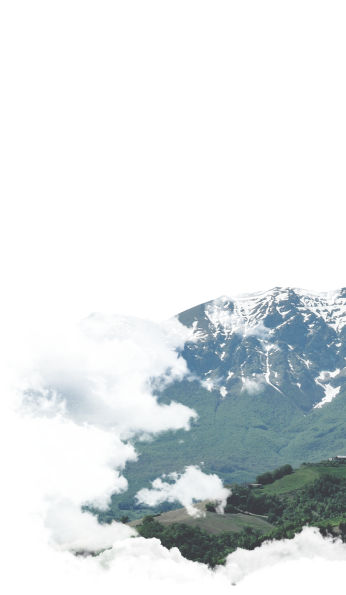
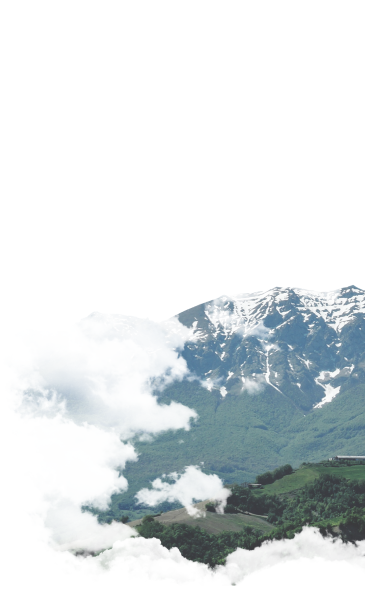
стилизует планшет и десктоп туров

diff --git a/source/index.html b/source/index.html
@@ -125,7 +125,8 @@
           <div class="hero__content">
             <div class="hero__text-container">
               <h2>Невероятная природа Камчатки</h2>
-              <p>Незабываемое приключение, во время которого вы отправитесь в путешествие по одному из самых нетронутых
+              <p>Незабываемое приключение, во время которого вы&nbsp;отправитесь в путешествие по одному из самых
+                нетронутых
                 уголков дикой природы в мире.</p>
               <a class="hero__button button" href="#">
                 <span class="hero__button-text">Смотреть тур</span>
@@ -209,14 +210,20 @@
                   </div>
                   <h3 class="tour-card__title">Путешествие вокруг&nbsp;Эльбруса</h3>
                   <dl class="tour-card__details">
-                    <dt class="tour-card__feature">Сложность:</dt>
-                    <dd class="tour-card__value star-rating" data-rating="4">
-                      <span class="visually-hidden">4 из 5</span>
-                    </dd>
-                    <dt class="tour-card__feature">Даты набора:</dt>
-                    <dd class="tour-card__value">12.06–19.06</dd>
-                    <dt class="tour-card__feature">Группа:</dt>
-                    <dd class="tour-card__value">до 15 чел.</dd>
+                    <div class="tour-card__details-wrapper">
+                      <dt class="tour-card__feature">Сложность:</dt>
+                      <dd class="tour-card__value star-rating" data-rating="4">
+                        <span class="visually-hidden">4 из 5</span>
+                      </dd>
+                    </div>
+                    <div class="tour-card__details-wrapper">
+                      <dt class="tour-card__feature">Даты набора:</dt>
+                      <dd class="tour-card__value">12.06–19.06</dd>
+                    </div>
+                    <div class="tour-card__details-wrapper">
+                      <dt class="tour-card__feature">Группа:</dt>
+                      <dd class="tour-card__value">до 15 чел.</dd>
+                    </div>
                   </dl>
                 </div>
               </li>
@@ -245,14 +252,20 @@
                   </div>
                   <h3 class="tour-card__title">Путь к подножию Белухи</h3>
                   <dl class="tour-card__details">
-                    <dt class="tour-card__feature">Сложность:</dt>
-                    <dd class="tour-card__value star-rating" data-rating="3">
-                      <span class="visually-hidden">3 из 5</span>
-                    </dd>
-                    <dt class="tour-card__feature">Даты набора:</dt>
-                    <dd class="tour-card__value">14.06–23.06</dd>
-                    <dt class="tour-card__feature">Группа:</dt>
-                    <dd class="tour-card__value">до 25 чел.</dd>
+                    <div class="tour-card__details-wrapper">
+                      <dt class="tour-card__feature">Сложность:</dt>
+                      <dd class="tour-card__value star-rating" data-rating="3">
+                        <span class="visually-hidden">3 из 5</span>
+                      </dd>
+                    </div>
+                    <div class="tour-card__details-wrapper">
+                      <dt class="tour-card__feature">Даты набора:</dt>
+                      <dd class="tour-card__value">14.06–23.06</dd>
+                    </div>
+                    <div class="tour-card__details-wrapper">
+                      <dt class="tour-card__feature">Группа:</dt>
+                      <dd class="tour-card__value">до 25 чел.</dd>
+                    </div>
                   </dl>
                 </div>
               </li>
@@ -277,14 +290,20 @@
                   </div>
                   <h3 class="tour-card__title">Через Фишт к&nbsp;Чёрному морю и&nbsp;обратно</h3>
                   <dl class="tour-card__details">
-                    <dt class="tour-card__feature">Сложность:</dt>
-                    <dd class="tour-card__value star-rating" data-rating="4">
-                      <span class="visually-hidden">4 из 5</span>
-                    </dd>
-                    <dt class="tour-card__feature">Даты набора:</dt>
-                    <dd class="tour-card__value">15.07–19.07</dd>
-                    <dt class="tour-card__feature">Группа:</dt>
-                    <dd class="tour-card__value">до 22 чел.</dd>
+                    <div class="tour-card__details-wrapper">
+                      <dt class="tour-card__feature">Сложность:</dt>
+                      <dd class="tour-card__value star-rating" data-rating="4">
+                        <span class="visually-hidden">4 из 5</span>
+                      </dd>
+                    </div>
+                    <div class="tour-card__details-wrapper">
+                      <dt class="tour-card__feature">Даты набора:</dt>
+                      <dd class="tour-card__value">15.07–19.07</dd>
+                    </div>
+                    <div class="tour-card__details-wrapper">
+                      <dt class="tour-card__feature">Группа:</dt>
+                      <dd class="tour-card__value">до 22 чел.</dd>
+                    </div>
                   </dl>
                 </div>
               </li>
@@ -309,14 +328,20 @@
                   </div>
                   <h3 class="tour-card__title">Восхождение Манарага</h3>
                   <dl class="tour-card__details">
-                    <dt class="tour-card__feature">Сложность:</dt>
-                    <dd class="tour-card__value star-rating" data-rating="5">
-                      <span class="visually-hidden">5 из 5</span>
-                    </dd>
-                    <dt class="tour-card__feature">Даты набора:</dt>
-                    <dd class="tour-card__value">12.07–19.07</dd>
-                    <dt class="tour-card__feature">Группа:</dt>
-                    <dd class="tour-card__value">до 7 чел.</dd>
+                    <div class="tour-card__details-wrapper">
+                      <dt class="tour-card__feature">Сложность:</dt>
+                      <dd class="tour-card__value star-rating" data-rating="5">
+                        <span class="visually-hidden">5 из 5</span>
+                      </dd>
+                    </div>
+                    <div class="tour-card__details-wrapper">
+                      <dt class="tour-card__feature">Даты набора:</dt>
+                      <dd class="tour-card__value">12.07–19.07</dd>
+                    </div>
+                    <div class="tour-card__details-wrapper">
+                      <dt class="tour-card__feature">Группа:</dt>
+                      <dd class="tour-card__value">до 7 чел.</dd>
+                    </div>
                   </dl>
                 </div>
               </li>

diff --git a/source/sass/blocks/tours.scss b/source/sass/blocks/tours.scss
@@ -19,22 +19,26 @@
       background-image: url("../img/bg/bg-clouds-mobile@2x.png");
     }
 
-    // @media (min-width: $tablet-width) {
-    //   background-image: url("../img/bg/bg-clouds-tablet@1x.png");
+    @media (min-width: $tablet-width) {
+      top: -92px;
+      height: 1630px;
+      width: calc(50% + 41px);
+      background-image: url("../img/bg/bg-clouds-tablet@1x.png");
 
-    //   @media (min-resolution: 2dppx) {
-    //     background-image: url("../img/bg/bg-clouds-tablet@2x.png");
-    //   }
-    // }
+      @media (min-resolution: 2dppx) {
+        background-image: url("../img/bg/bg-clouds-tablet@2x.png");
+      }
+    }
 
-    // @media (min-width: $desktop-width) {
-    //   background-image: url("../img/bg/bg-clouds-desktop@1x.png");
+    @media (min-width: $desktop-width) {
+      top: -126px;
+      width: calc(50% - 118px);
+      background-image: url("../img/bg/bg-clouds-desktop@1x.png");
 
-    //   @media (min-resolution: 2dppx) {
-    //     background-image: url("../img/bg/bg-clouds-desktop@2x.png");
-    //   }
-    // }
-
+      @media (min-resolution: 2dppx) {
+        background-image: url("../img/bg/bg-clouds-desktop@2x.png");
+      }
+    }
   }
 }
 
@@ -45,6 +49,17 @@
   display: flex;
   flex-direction: column;
   gap: 25px;
+
+  @media (min-width: $tablet-width) {
+    padding-top: 40px;
+    padding-bottom: 40px;
+  }
+
+  @media (min-width: $desktop-width) {
+    padding-top: 100px;
+    padding-bottom: 100px;
+    gap: 53px;
+  }
 }
 
 .tours__title {
@@ -54,6 +69,11 @@
 
   @media (min-width: $tablet-width) {
     padding-right: 78px;
+    margin-bottom: 10px;
+  }
+
+  @media (min-width: $desktop-width) {
+    margin-bottom: -4px;
   }
 }
 

diff --git a/source/sass/blocks/tour-card.scss b/source/sass/blocks/tour-card.scss
@@ -6,6 +6,14 @@
   color: $base-white;
   background-color: $color-grey;
 
+  @media (min-width: $tablet-width) {
+    max-width: 330px;
+  }
+
+  @media (min-width: $desktop-width) {
+    max-width: 380px;
+  }
+
   &::before {
     content: "";
     position: absolute;
@@ -112,19 +120,32 @@
     background-color: $base-white;
     opacity: 0.2;
   }
+
+  @media (min-width: $desktop-width) {
+    max-width: 233px;
+  }
 }
 
 .tour-card__details {
-  display: grid;
-  grid-template-columns: repeat(3, max-content);
-  gap: 4px 8px;
-  align-items: end;
+  display: flex;
+  justify-content: space-between;
+  gap: 8px;
   margin: 0;
+
+  @media (min-width: $tablet-width) {
+    column-gap: 28px;
+  }
+}
+
+.tour-card__details-wrapper {
+  display: flex;
+  flex-direction: column;
+  justify-content: space-between;
+  gap: 4px;
 }
 
 .tour-card__feature {
   @include caption-small;
-  grid-row: 1 / 2;
 }
 
 .tour-card__value {

diff --git a/source/sass/blocks/card-swiper.scss b/source/sass/blocks/card-swiper.scss
@@ -1,6 +1,20 @@
 .card-swiper {
   position: relative;
   width: 100%;
+  max-width: 678px;
+
+  @media (min-width: $desktop-width) {
+    max-width: 1200px;
+  }
+}
+
+.card-swiper__slider {
+  max-width: 678px;
+  width: 100%;
+
+  @media (min-width: $desktop-width) {
+    max-width: 1200px;
+  }
 }
 
 .card-swiper__buttons {
@@ -16,6 +30,10 @@
     right: 0;
     width: 78px;
     height: 35px;
+  }
+
+  @media (min-width: $desktop-width) {
+    top: -53px;
   }
 }
 

diff --git a/source/js/modules/card-slider.js b/source/js/modules/card-slider.js
@@ -5,10 +5,22 @@ import 'swiper/css';
 
 const cardSwiper = new Swiper('.card-swiper__slider', {
   loop: false,
+  slidesPerView: 1,
   modules: [ Navigation],
   navigation: {
     nextEl: '.swiper-button-next',
     prevEl: '.swiper-button-prev',
+  },
+  breakpoints: {
+    768: {
+      watchSlidesProgress: true,
+      slidesPerView: 2,
+      spaceBetween: 18,
+    },
+    1440: {
+      slidesPerView: 3,
+      spaceBetween: 30,
+    },
   },
 });
 

diff --git a/source/sass/blocks/hero.scss b/source/sass/blocks/hero.scss
@@ -36,11 +36,13 @@
     @media (min-width: $tablet-width) {
       max-width: 500px;
       margin-bottom: 38px;
+      padding-inline: 13px;
     }
 
     @media (min-width: $desktop-width) {
       max-width: 464px;
       margin-bottom: 37px;
+      padding-inline: 0;
     }
   }
 }

diff --git a/source/sass/mixins.scss b/source/sass/mixins.scss
@@ -206,4 +206,8 @@
       bottom: 0;
     }
   }
+
+  @media (min-width: $desktop-width) {
+    padding-top: 24px;
+  }
 }
